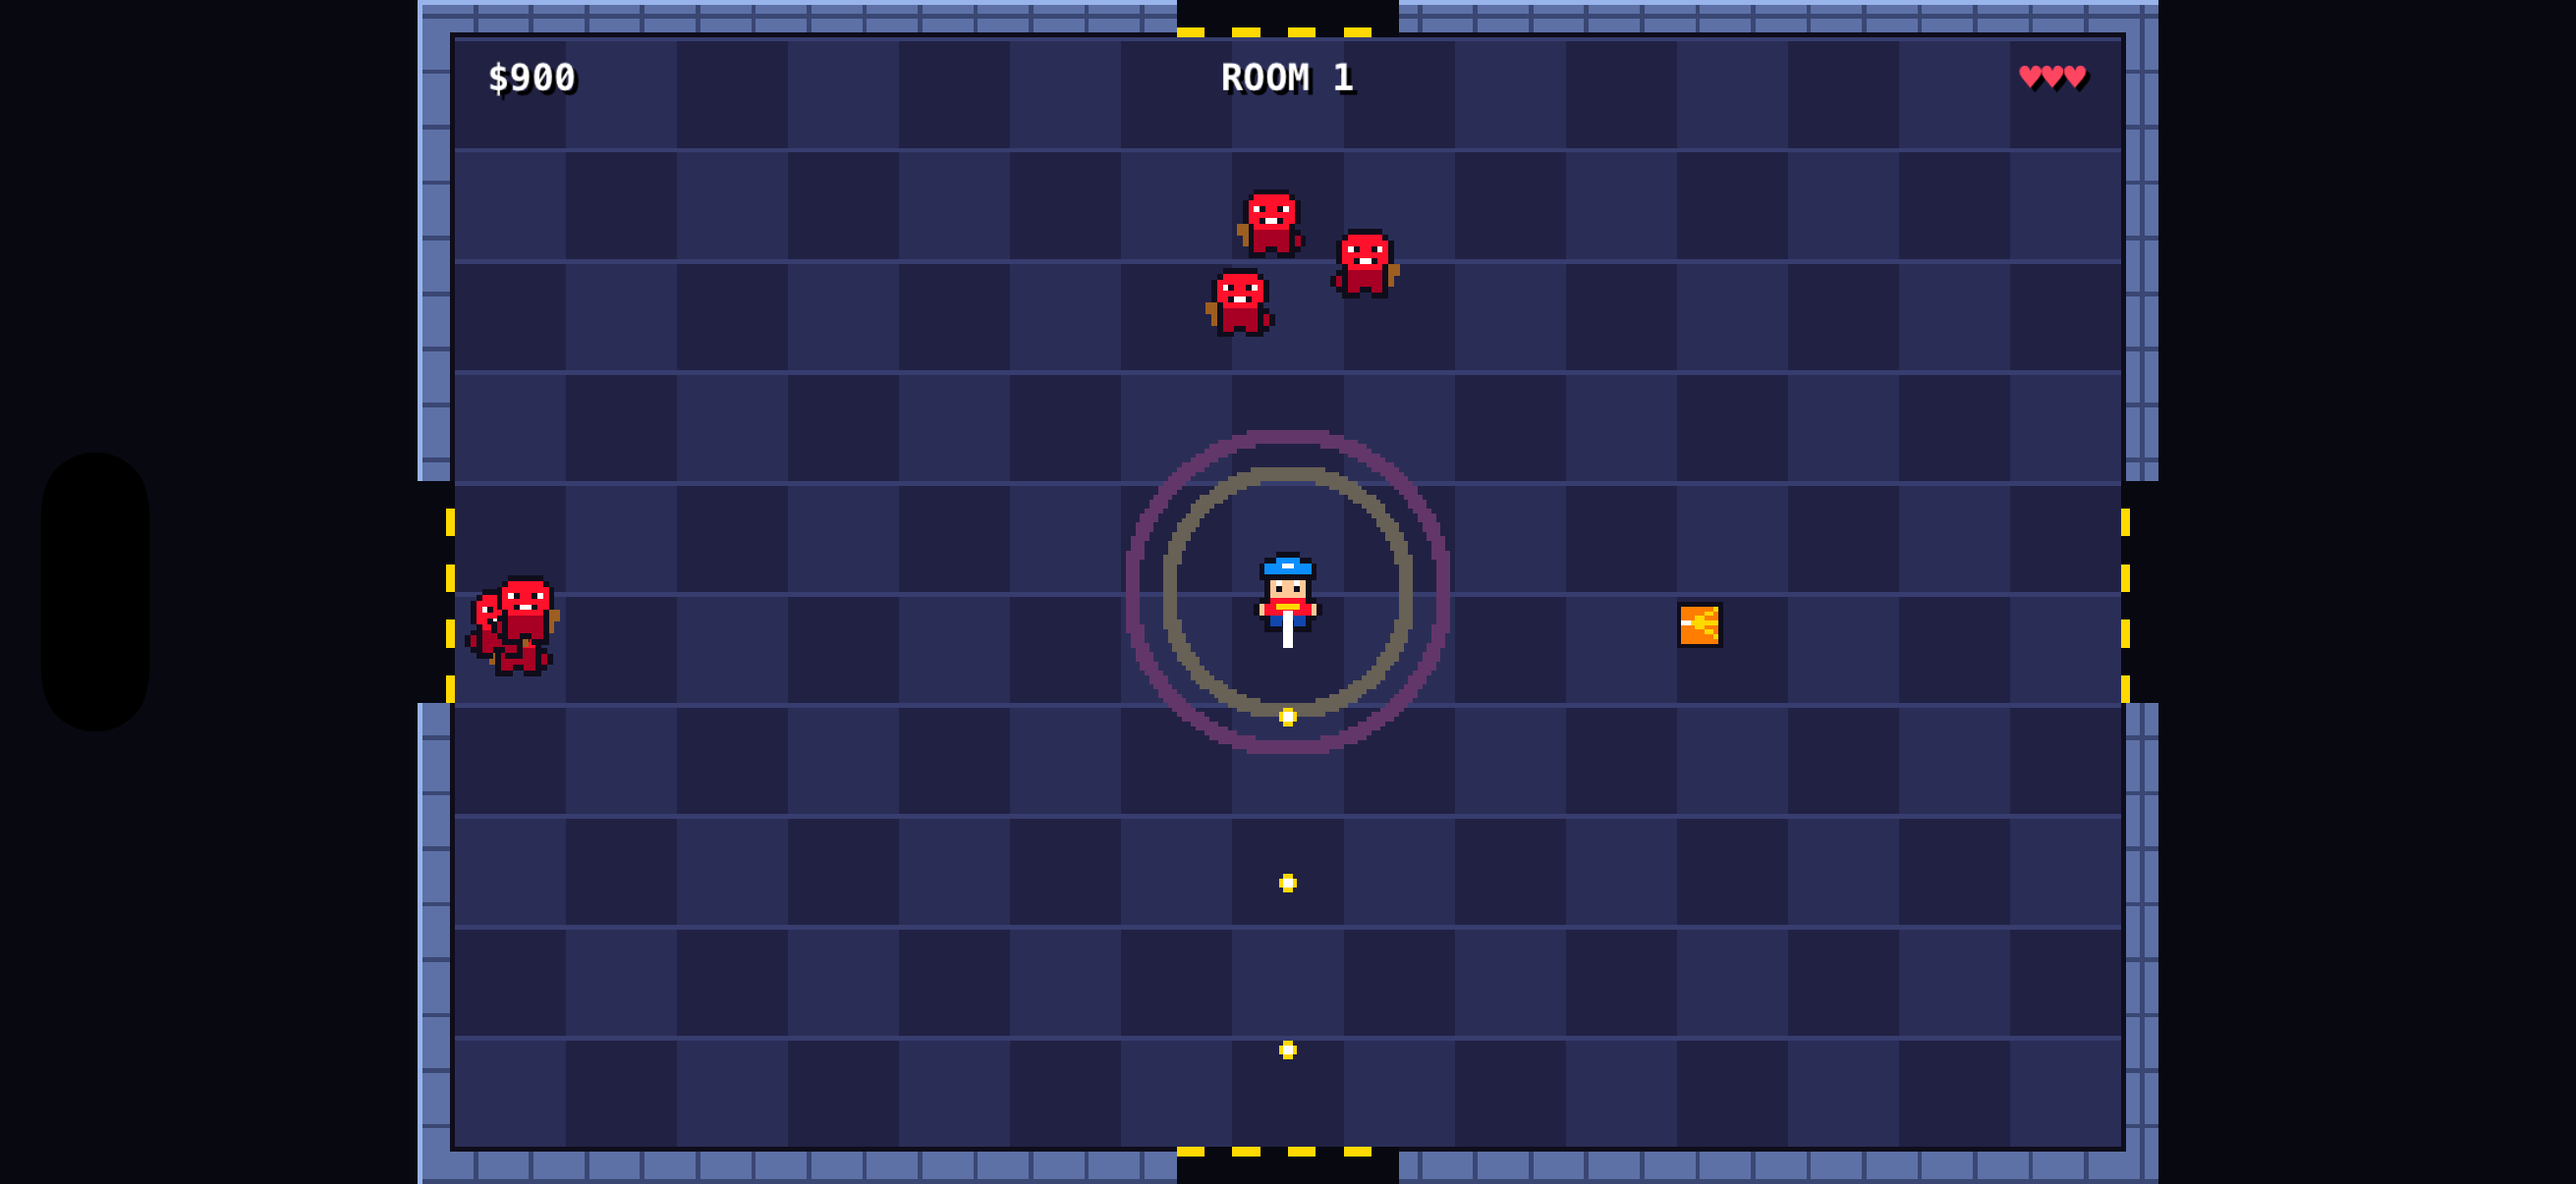
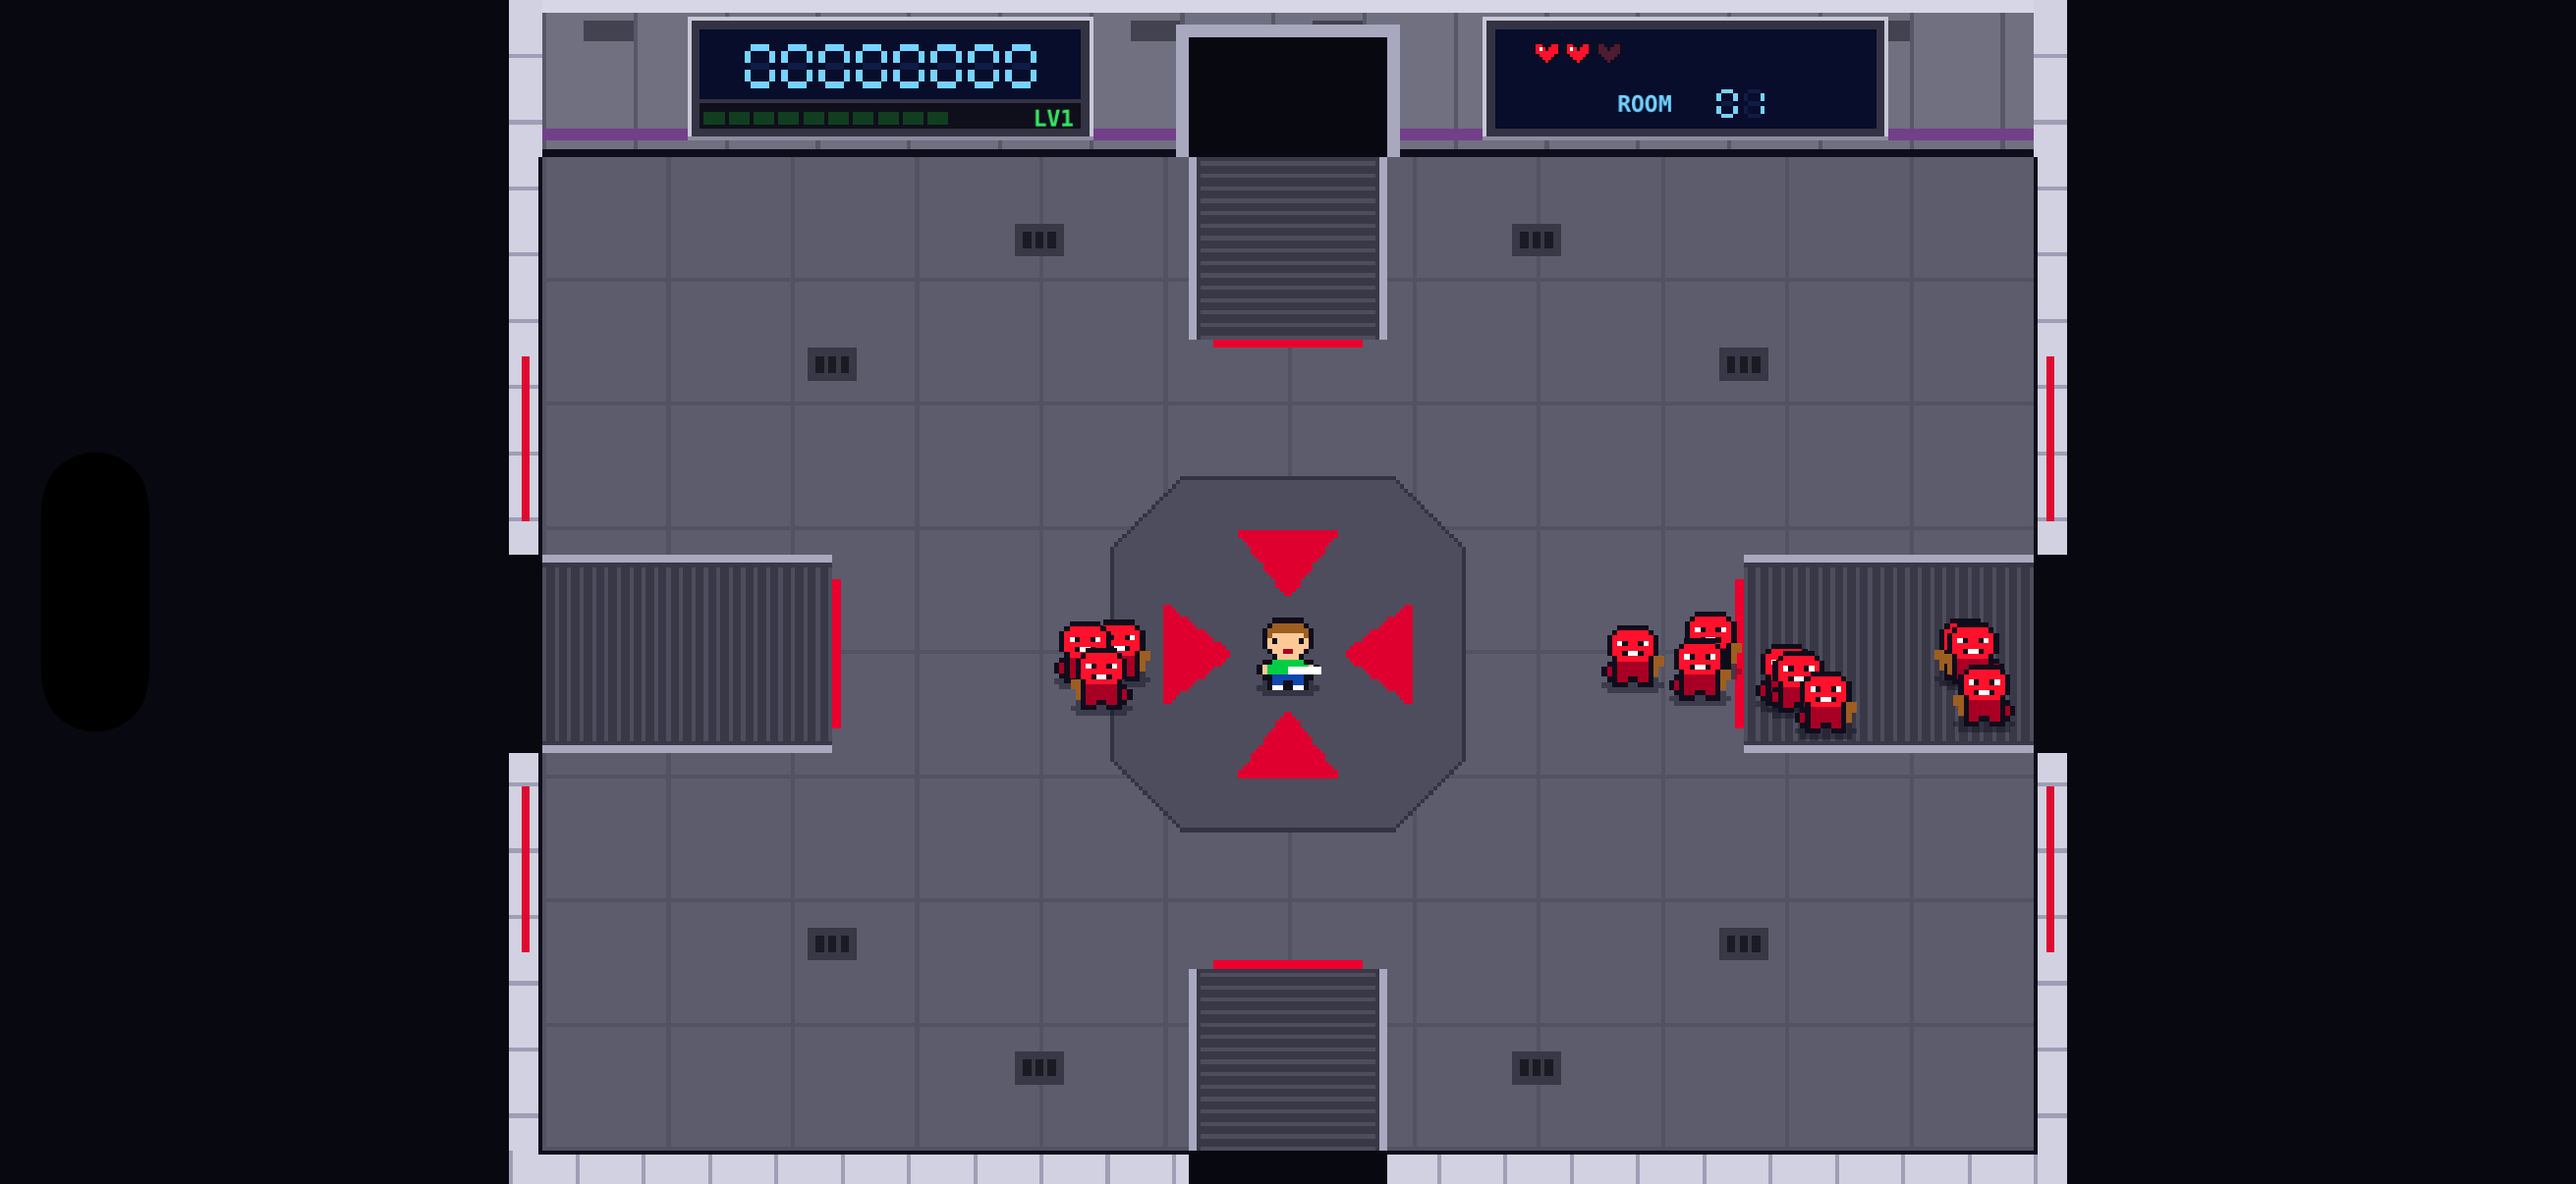
Update README screenshot and look description

diff --git a/README.md b/README.md
@@ -5,7 +5,7 @@ A twin-stick arena shooter for iPhone, iPad and Mac, built with SpriteKit and Sw
 Inspired by early-90s arcade arena shooters. All code, names and art are original.
 
 <p align="center">
-  <img src="screenshots/gameplay.png" width="720" alt="Gameplay: the contestant firing at grunts in a checkered studio arena">
+  <img src="screenshots/gameplay.png" width="720" alt="Gameplay: the contestant on the centre stage of a grey studio arena, with scoreboards on the back wall">
 </p>
 
 ## Status
@@ -18,7 +18,7 @@ First playable build. One arena, endless rooms that get harder, no map or bosses
 - **Door-based waves.** Enemies spawn in bursts from doors on all four walls until the room is cleared.
 - **Two enemy types.** Fast red grunts, and from Room 2 on, tougher purple bruisers that take four hits.
 - **Pickups.** Cash for bonus points, hearts to heal, plus spread shot and rapid fire that last 10 seconds each.
-- **16-bit look.** Pixel-art characters, pickups and a checkered studio arena, all drawn in code with no image files.
+- **16-bit look.** A 3/4 top-down studio with walkways from each door, a centre stage, and LCD scoreboards on the back wall, all pixel art drawn in code.
 - **Levelling.** Kills earn XP. Each level adds a heart to your maximum health (up to 10) and refills it, so you grow as the rooms get harder.
 - **Rooms and score.** Clear a room for a bonus and move on to a harder one. Run out of hearts and the show is cancelled.
 
